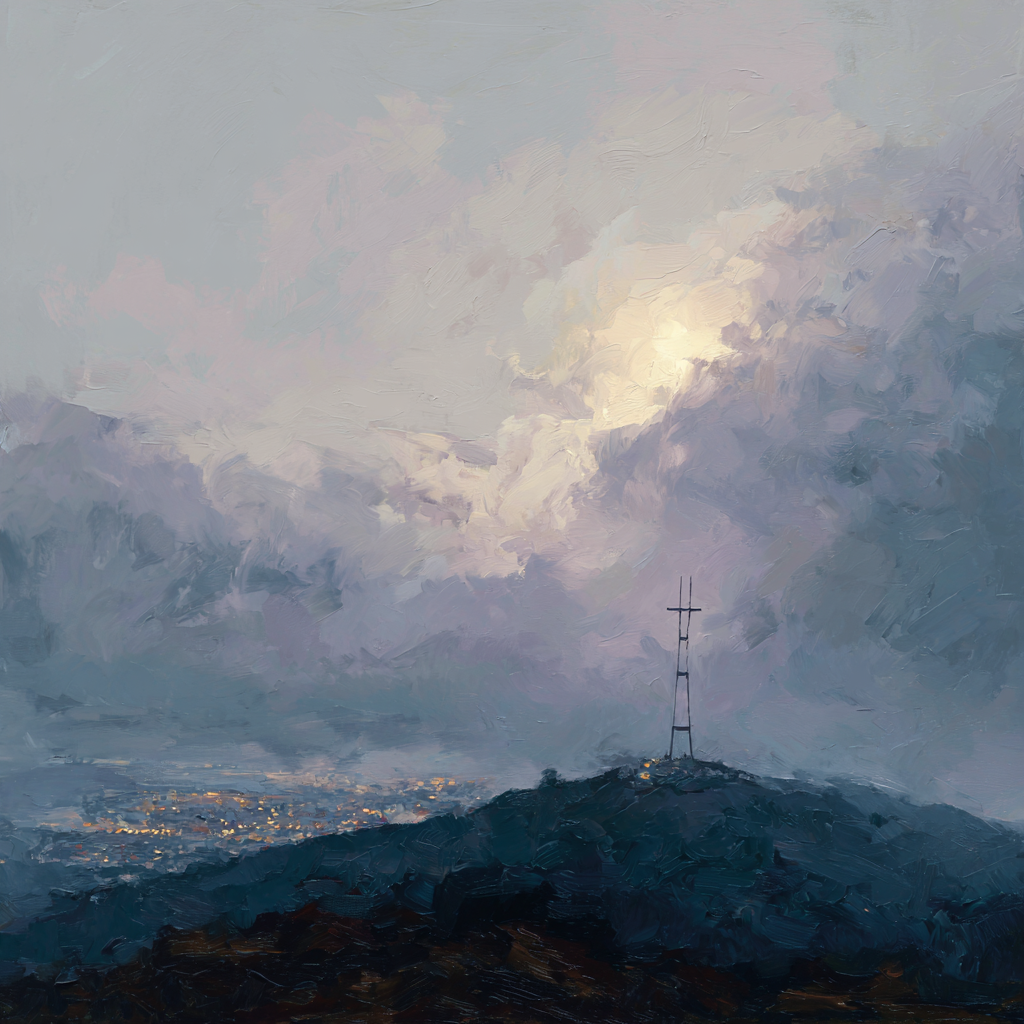
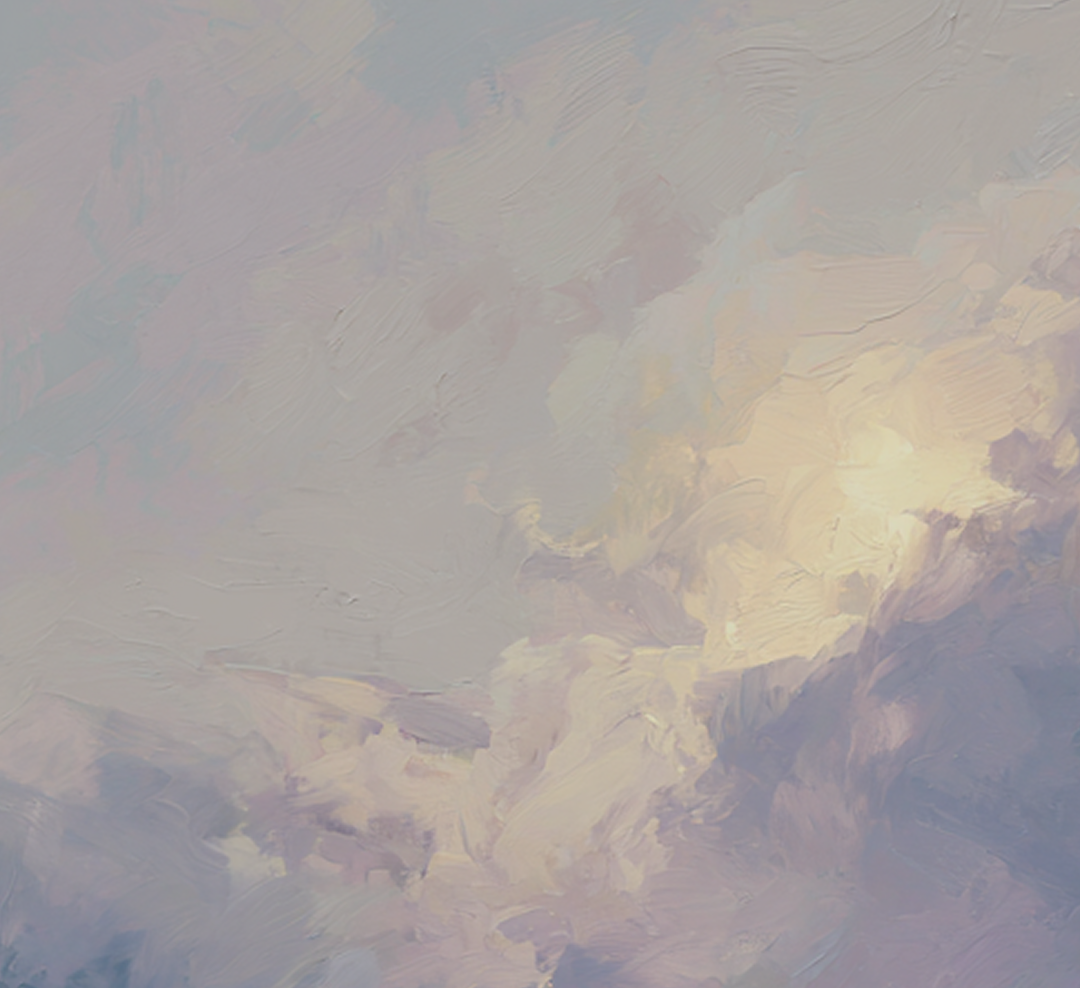
Update website preview image

diff --git a/app/page.tsx b/app/page.tsx
@@ -9,6 +9,13 @@ export const metadata: Metadata = {
   openGraph: {
     title: "josh earle",
     description: "josh earle — co-founder of outlit, based in sf. building, writing, and sharing things i find interesting.",
+    images: [
+      {
+        url: "/images/og-image.png",
+        width: 1080,
+        height: 988,
+      },
+    ],
   },
 };
 
